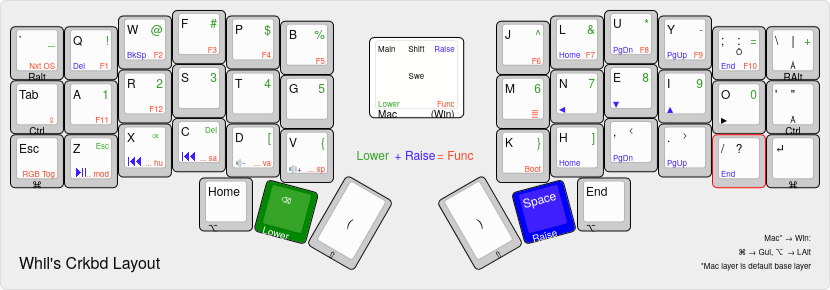
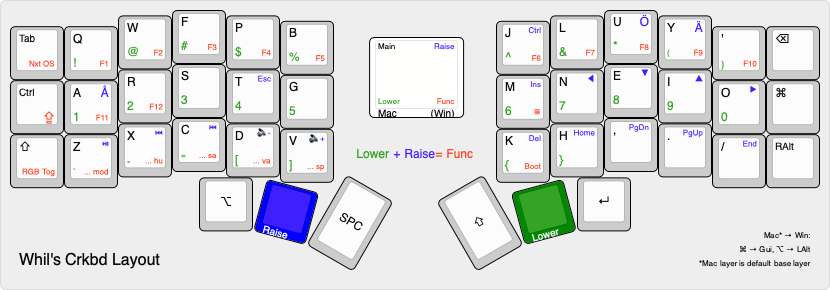
Simplify

diff --git a/keyboards/crkbd/keymaps/Whil-/keymap.c b/keyboards/crkbd/keymaps/Whil-/keymap.c
@@ -42,30 +42,32 @@ enum layers {
 #define RSE_BSPC LT(_RAISE, KC_BSPC)
 #define RSE_SPC  LT(_RAISE, KC_SPC)
 
+#define RAISE    MO(_RAISE)
+#define LOWER    MO(_LOWER)
 #define ADJUST   MO(_ADJUST)
 
 const uint16_t PROGMEM keymaps[][MATRIX_ROWS][MATRIX_COLS] = {
   // Base
   [_BASE] = LAYOUT_split_3x6_3(
   //,-----------------------------------------------------.                    ,-----------------------------------------------------.
-     RALT_GRV,    KC_Q,    KC_W,    KC_F,    KC_P,    KC_B,                         KC_J,    KC_L,    KC_U,    KC_Y, KC_SCLN,RALT_BSL,
+       KC_TAB,    KC_Q,    KC_W,    KC_F,    KC_P,    KC_B,                         KC_J,    KC_L,    KC_U,    KC_Y, KC_QUOT, KC_BSPC,
   //|--------+--------+--------+--------+--------+--------|                    |--------+--------+--------+--------+--------+--------|
-      CTL_TAB,    KC_A,    KC_R,    KC_S,    KC_T,    KC_G,                         KC_M,    KC_N,    KC_E,    KC_I,    KC_O,CTL_QUOT,
+      KC_LCTL,    KC_A,    KC_R,    KC_S,    KC_T,    KC_G,                         KC_M,    KC_N,    KC_E,    KC_I,    KC_O, KC_LGUI,
   //|--------+--------+--------+--------+--------+--------|                    |--------+--------+--------+--------+--------+--------|
-      GUI_ESC,    KC_Z,    KC_X,    KC_C,    KC_D,    KC_V,                         KC_K,    KC_H, KC_COMM,  KC_DOT, KC_SLSH, GUI_ENT,
+      KC_LSFT,    KC_Z,    KC_X,    KC_C,    KC_D,    KC_V,                         KC_K,    KC_H, KC_COMM,  KC_DOT, KC_SLSH, KC_RALT,
   //|--------+--------+--------+--------+--------+--------+--------|  |--------+--------+--------+--------+--------+--------+--------|
-                                         LALT_HOM,LOW_BSPC, SC_LSPO,    SC_RSPC, RSE_SPC,LALT_END
+                                          KC_LALT,   RAISE,  KC_SPC,    KC_RSFT,   LOWER,  KC_ENT
                                       //`--------------------------'  `--------------------------'
   ),
 
   // Lower
   [_LOWER] = LAYOUT_split_3x6_3(
   //,-----------------------------------------------------.                    ,-----------------------------------------------------.
-      KC_UNDS, KC_EXLM,   KC_AT, KC_HASH, KC_DLR,  KC_PERC,                      KC_CIRC, KC_AMPR, KC_ASTR, KC_MINS,  KC_EQL, KC_PLUS,
+      _______, KC_EXLM,   KC_AT, KC_HASH, KC_DLR,  KC_PERC,                      KC_CIRC, KC_AMPR, KC_ASTR, KC_LPRN, KC_RPRN, _______,
   //|--------+--------+--------+--------+--------+--------|                    |--------+--------+--------+--------+--------+--------|
       _______,    KC_1,    KC_2,    KC_3,    KC_4,    KC_5,                         KC_6,    KC_7,    KC_8,    KC_9,    KC_0, _______,
   //|--------+--------+--------+--------+--------+--------|                    |--------+--------+--------+--------+--------+--------|
-      KC_LGUI,  KC_ESC, KC_BSPC,  KC_DEL, KC_LBRC, KC_LCBR,                      KC_RCBR, KC_RBRC, _______, _______, _______, _______,
+      _______,  KC_GRV, KC_MINS,  KC_EQL, KC_LBRC, KC_RBRC,                      KC_LCBR, KC_RCBR, _______, _______, _______, _______,
   //|--------+--------+--------+--------+--------+--------+--------|  |--------+--------+--------+--------+--------+--------+--------|
                                           _______, _______, _______,    _______, _______, _______
                                       //`--------------------------'  `--------------------------'
@@ -74,11 +76,11 @@ const uint16_t PROGMEM keymaps[][MATRIX_ROWS][MATRIX_COLS] = {
   // Raise swedish codes
   [_RAISE] = LAYOUT_split_3x6_3(
   //,-----------------------------------------------------.                    ,-----------------------------------------------------.
-      _______, XXXXXXX, XXXXXXX, XXXXXXX, XXXXXXX, XXXXXXX,                      XXXXXXX, XXXXXXX, XXXXXXX, XXXXXXX,  SWE_OE,  SWE_AA,
+      _______, XXXXXXX, XXXXXXX, XXXXXXX, XXXXXXX, XXXXXXX,                      KC_LCTL, XXXXXXX,  SWE_OE,  SWE_AE, _______, _______,
   //|--------+--------+--------+--------+--------+--------|                    |--------+--------+--------+--------+--------+--------|
-      _______, XXXXXXX, XXXXXXX, XXXXXXX, XXXXXXX, XXXXXXX,                      XXXXXXX, KC_LEFT, KC_DOWN,   KC_UP, KC_RGHT,  CTL_AE,
+      _______,  SWE_AA, XXXXXXX, XXXXXXX,  KC_ESC, XXXXXXX,                       KC_INS, KC_LEFT, KC_DOWN,   KC_UP, KC_RGHT, _______,
   //|--------+--------+--------+--------+--------+--------|                    |--------+--------+--------+--------+--------+--------|
-      _______, KC_MPLY, KC_MPRV, KC_MNXT, KC_VOLD, KC_VOLU,                      XXXXXXX, KC_HOME, KC_PGDN, KC_PGUP,  KC_END, _______,
+      _______, KC_MPLY, KC_MPRV, KC_MNXT, KC_VOLD, KC_VOLU,                       KC_DEL, KC_HOME, KC_PGDN, KC_PGUP,  KC_END, _______,
   //|--------+--------+--------+--------+--------+--------+--------|  |--------+--------+--------+--------+--------+--------+--------|
                                           _______, _______, _______,    _______, _______, _______
   ),
@@ -90,7 +92,7 @@ const uint16_t PROGMEM keymaps[][MATRIX_ROWS][MATRIX_COLS] = {
   //|--------+--------+--------+--------+--------+--------|                    |--------+--------+--------+--------+--------+--------|
       KC_CAPS,  KC_F11,  KC_F12, XXXXXXX, XXXXXXX, XXXXXXX,                       KC_APP, XXXXXXX, XXXXXXX, XXXXXXX, XXXXXXX, XXXXXXX,
   //|--------+--------+--------+--------+--------+--------|                    |--------+--------+--------+--------+--------+--------|
-      RGB_TOG, RGB_MOD, RGB_HUI, RGB_SAI, RGB_VAI, RGB_SPI,                      QK_BOOT, XXXXXXX, XXXXXXX, XXXXXXX, XXXXXXX, XXXXXXX,
+      RM_TOGG, RM_NEXT, RM_HUEU, RM_SATU, RM_VALU, RM_SPDU,                      QK_BOOT, XXXXXXX, XXXXXXX, XXXXXXX, XXXXXXX, XXXXXXX,
   //|--------+--------+--------+--------+--------+--------+--------|  |--------+--------+--------+--------+--------+--------+--------|
                                           XXXXXXX, _______, XXXXXXX,    XXXXXXX, _______, XXXXXXX
                                       //`--------------------------'  `--------------------------'
@@ -540,6 +542,10 @@ bool process_record_user(uint16_t keycode, keyrecord_t *record) {
   case CTL_TAB:
   case GUI_QUOT:
   case CTL_QUOT:
+  case KC_LCTL:
+  case KC_LGUI:
+  case KC_LALT:
+  case KC_RALT:
 #ifdef OLED_ENABLE
     isSneaking = record->event.pressed;
 #endif

diff --git a/keyboards/crkbd/keymaps/Whil-/config.h b/keyboards/crkbd/keymaps/Whil-/config.h
@@ -65,7 +65,7 @@ This is the C configuration file for the keymap
 //#   define RGB_MATRIX_FRAMEBUFFER_EFFECTS
 //#   define RGB_MATRIX_LED_PROCESS_LIMIT (DRIVER_LED_TOTAL + 4) / 5 // limits the number of LEDs to process in an animation per task run (increases keyboard responsiveness)
 //#   define RGB_MATRIX_LED_FLUSH_LIMIT 16 // limits in milliseconds how frequently an animation will update the LEDs. 16 (16ms) is equivalent to limiting to 60fps (increases keyboard responsiveness)
-#    define RGB_MATRIX_MAXIMUM_BRIGHTNESS 150 // limits maximum brightness of LEDs to 150 out of 255. Higher may cause the controller to crash.
+//#    define RGB_MATRIX_MAXIMUM_BRIGHTNESS 150 // limits maximum brightness of LEDs to 150 out of 255. Higher may cause the controller to crash.
 #    define RGB_MATRIX_HUE_STEP 8
 #    define RGB_MATRIX_SAT_STEP 8
 #    define RGB_MATRIX_VAL_STEP 8
